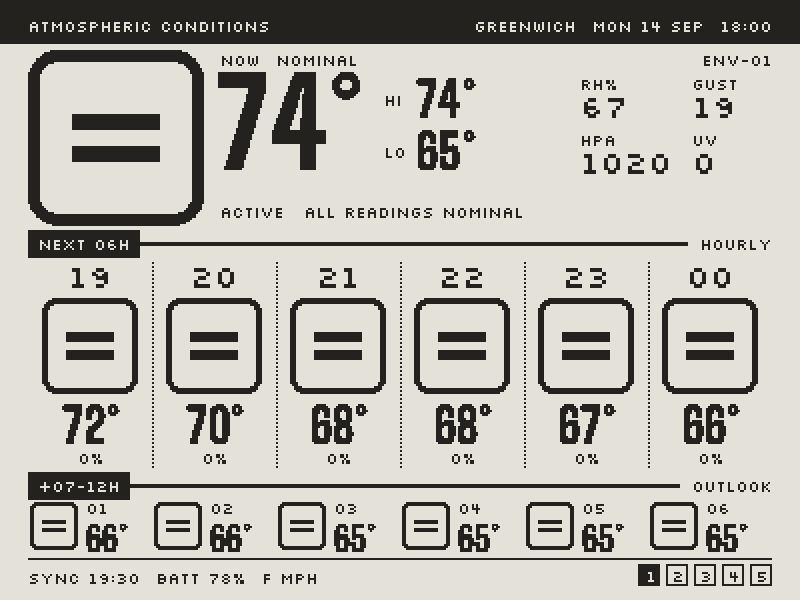
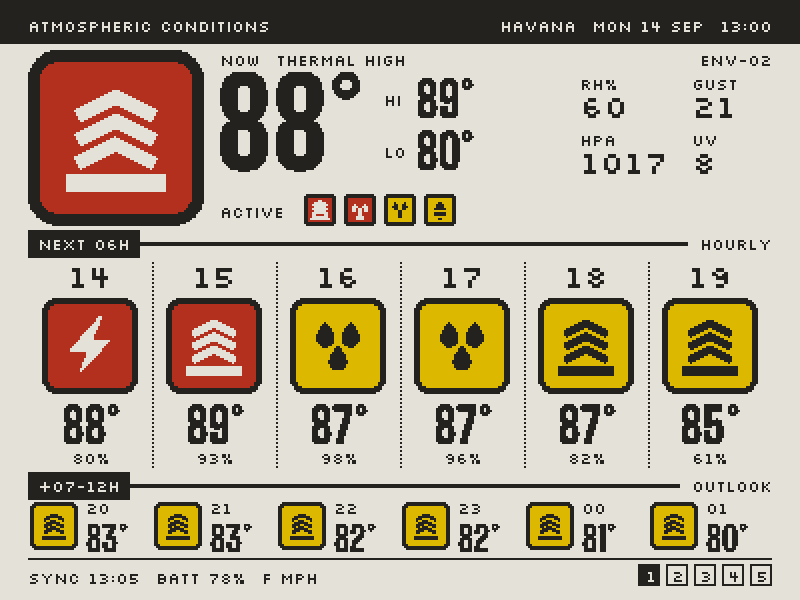
docs: show the weather screen on a stormy day
A mild evening at the example location left the screen almost all
NOMINAL placards. The screenshot now uses a real forecast for a Havana
afternoon with thunderstorms, heat, rain and high UV, labelled as Havana.
The preview tool gains PREVIEW_PLACE to label the place it renders.

Claude-Session: https://claude.ai/code/session_01TruFE7R6ZPXYpVVBJ75SXN

diff --git a/tools/preview.c b/tools/preview.c
@@ -8,8 +8,9 @@
 // Tracking (ORBIT_TLE and ORBIT_NEO name saved responses; defaults are the
 // test fixtures), 5 Crew Manifest. Settings come from config.h, or from
 // config.example.h when it is missing or PREVIEW_EXAMPLE is defined.
-// PREVIEW_NOW=unix seconds renders at another time. Prints each hour's
-// conditions and each headline so the screen can be checked against the data.
+// PREVIEW_NOW=unix seconds renders at another time, PREVIEW_PLACE=name labels
+// another place. Prints each hour's conditions and each headline so the
+// screen can be checked against the data.
 #include "fb.h"
 #include "news.h"
 #include "screen.h"
@@ -67,7 +68,8 @@ int main(int argc, char **argv) {
         printf("n%d %4.1fh  %s\n", i, (now - news.item[i].published) / 3600.0, news.item[i].title);
 
     int mode = argc > 4 ? atoi(argv[4]) - 1 : 0;
-    screen_ctx_t ctx = { .mode = mode, .modes = 5, .batt_pct = 78, .sync_utc = now, .place = PLACE_NAME, .feed = NEWS_LABEL };
+    screen_ctx_t ctx = { .mode = mode, .modes = 5, .batt_pct = 78, .sync_utc = now,
+                         .place = getenv("PREVIEW_PLACE") ? getenv("PREVIEW_PLACE") : PLACE_NAME, .feed = NEWS_LABEL };
     static uint8_t fb[FB_BYTES];
     if (mode == 0) screen_env(fb, &w, &ctx);
     else if (mode == 1) screen_news(fb, &news, now, w.utc_offset, &ctx);
